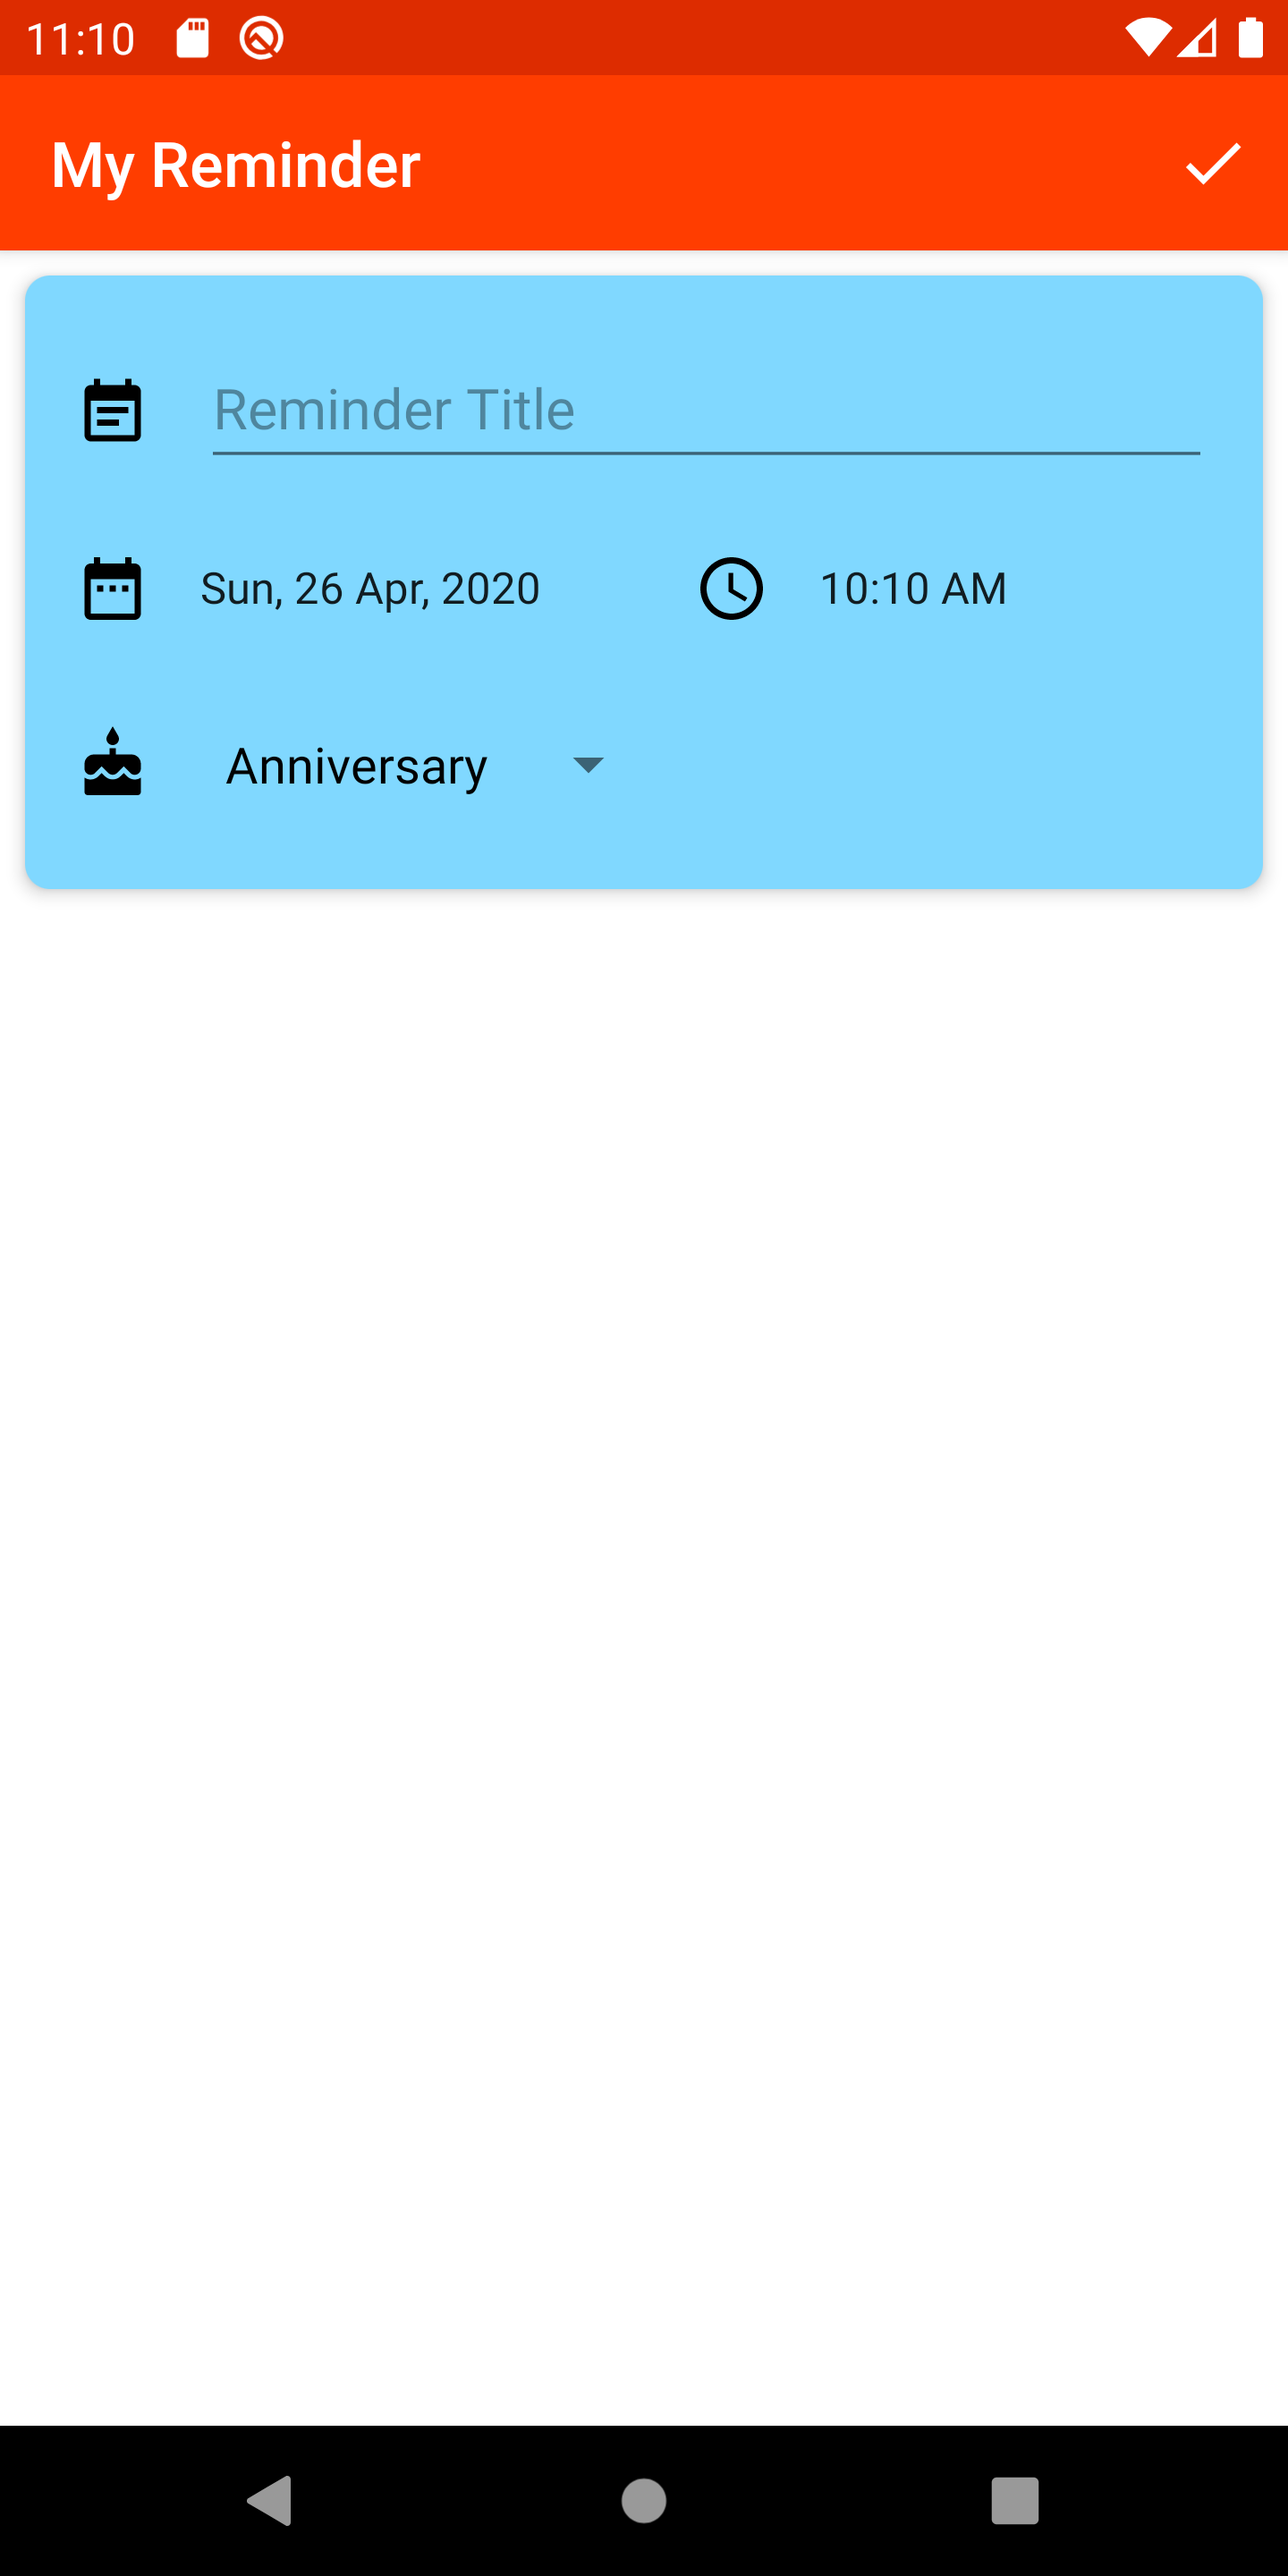
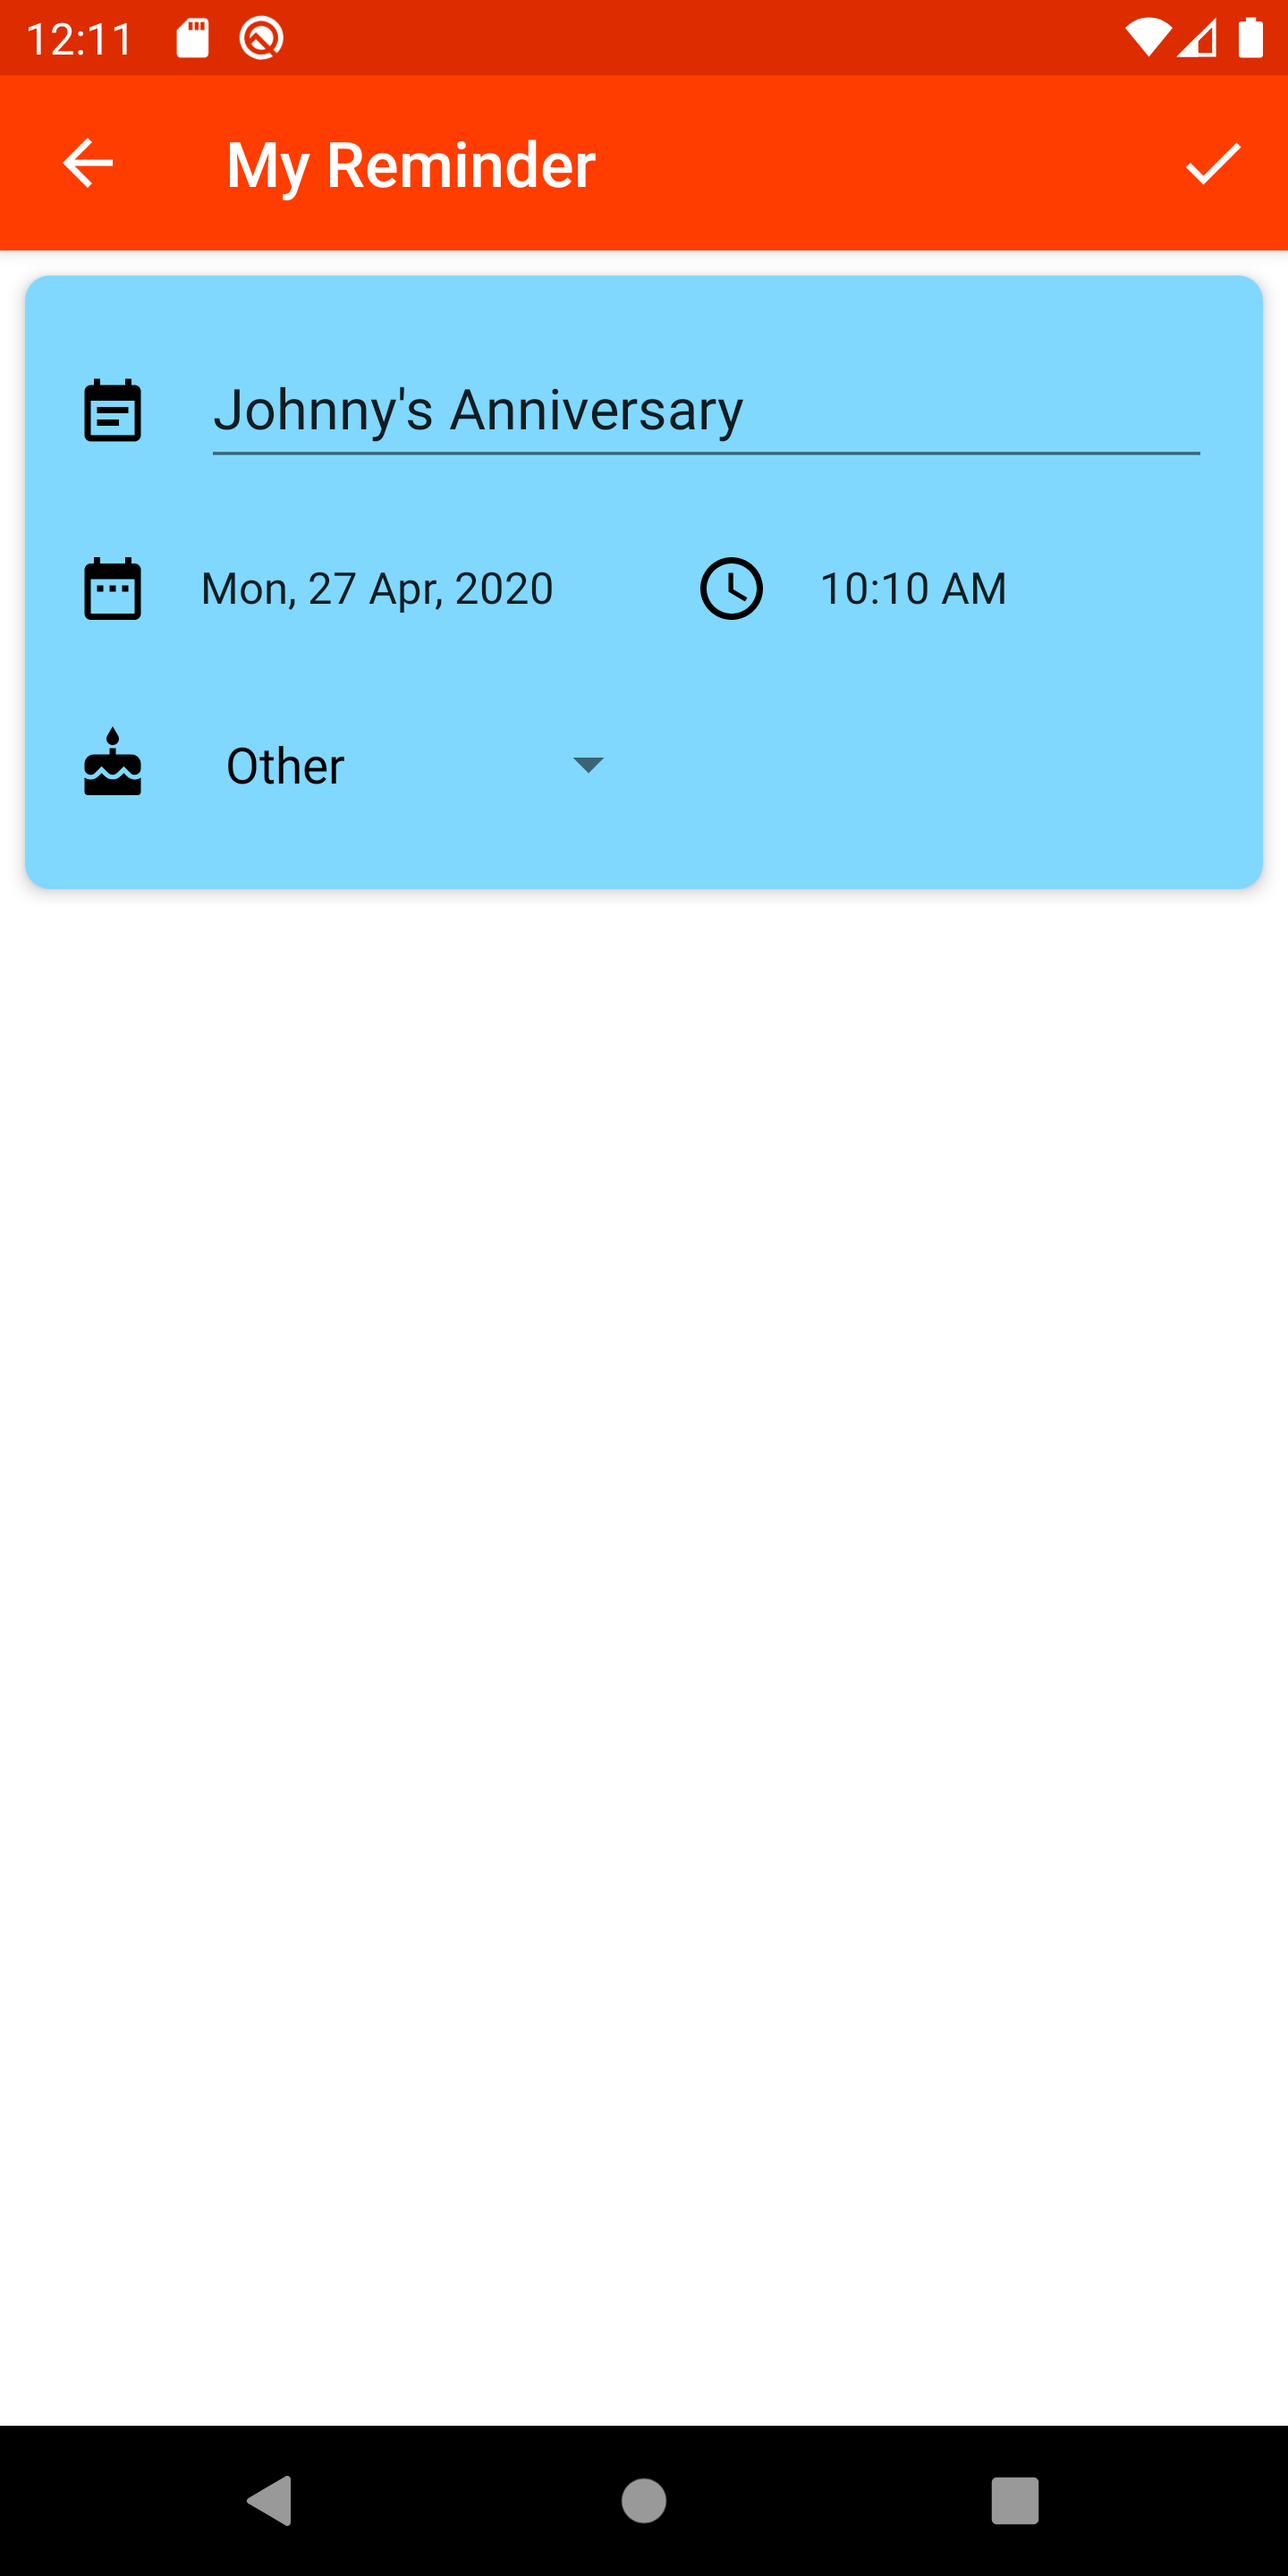
Added back to home navigation button

diff --git a/app/src/main/java/com/gofedora/myreminder/MainActivity.kt b/app/src/main/java/com/gofedora/myreminder/MainActivity.kt
@@ -19,7 +19,8 @@ import kotlinx.android.synthetic.main.activity_main.*
 class MainActivity : AppCompatActivity(), FragmentCallback {
 
     companion object {
-        private const val BACKSTACK_TAG = "ReminderFragments"
+        private const val REMINDER_LIST_FRAGMENT = 1
+        private const val REMINDER_EDIT_FRAGMENT = 2
     }
 
     override fun onCreate(savedInstanceState: Bundle?) {
@@ -28,27 +29,56 @@ class MainActivity : AppCompatActivity(), FragmentCallback {
         setSupportActionBar(toolbar)
 
         // Initiate a draw the reminder list on initial load
-        val fragment = ReminderListFragment().apply {
-            setFragmentActionListener(this@MainActivity)
-        }
-
-        supportFragmentManager.beginTransaction()
-            .replace(R.id.fragment_container, fragment)
-            .commit()
+        navigateToFragment(REMINDER_LIST_FRAGMENT)
 
         // Attach onClickListener to FloatingActionButton to switch to edit page
         fab.setOnClickListener {
-            val editFragment = ReminderEditFragment().apply {
-                setFragmentActionListener(this@MainActivity)
+            navigateToFragment(REMINDER_EDIT_FRAGMENT)
+        }
+    }
+
+    /**
+     * Navigate between fragments
+     */
+    private fun navigateToFragment(fragmentId: Int, bundle: Bundle = Bundle()) {
+        when (fragmentId) {
+            REMINDER_LIST_FRAGMENT -> {
+                // Flush the FragmentManager backstack to clear any fragments
+                supportFragmentManager.popBackStack(null, FragmentManager.POP_BACK_STACK_INCLUSIVE)
+
+                val fragment = ReminderListFragment().apply {
+                    setFragmentActionListener(this@MainActivity)
+                }
+                supportFragmentManager.beginTransaction()
+                    .replace(R.id.fragment_container, fragment)
+                    .commit()
+
+                // Show FloatingActionButton
+                fab.visibility = View.VISIBLE
+
+                // Disable back to home navigation button
+                toolbar.navigationIcon = null
             }
+            REMINDER_EDIT_FRAGMENT -> {
+                val fragment = ReminderEditFragment().apply {
+                    setFragmentActionListener(this@MainActivity)
+                    arguments = bundle
+                }
 
-            supportFragmentManager.beginTransaction()
-                .replace(R.id.fragment_container, editFragment)
-                .addToBackStack(BACKSTACK_TAG)
-                .commit()
+                supportFragmentManager.beginTransaction()
+                    .replace(R.id.fragment_container, fragment)
+                    .addToBackStack("ReminderFragments")
+                    .commit()
 
-            // Hide FloatingActionButton on edit page
-            fab.visibility = View.GONE
+                // Hide FloatingActionButton on edit page
+                fab.visibility = View.GONE
+
+                // Add Back to Home navigation
+                toolbar.setNavigationIcon(R.drawable.ic_arrow_back_white_24dp)
+                toolbar.setNavigationOnClickListener {
+                    navigateToFragment(REMINDER_LIST_FRAGMENT)
+                }
+            }
         }
     }
 
@@ -57,6 +87,10 @@ class MainActivity : AppCompatActivity(), FragmentCallback {
      */
     override fun onOptionsItemSelected(item: MenuItem): Boolean {
         return when (item.itemId) {
+            R.id.home -> {
+                Toast.makeText(this, "Go back", Toast.LENGTH_SHORT).show()
+                true
+            }
             // Insert Dummy Data clicked
             R.id.actionInsertDummyData -> {
                 // Generate reminders from our string resource
@@ -87,6 +121,10 @@ class MainActivity : AppCompatActivity(), FragmentCallback {
     override fun onBackPressed() {
         // Show FloatingActionButton
         fab.visibility = View.VISIBLE
+
+        // Disable back to home navigation button
+        toolbar.navigationIcon = null
+
         super.onBackPressed()
     }
 
@@ -100,18 +138,7 @@ class MainActivity : AppCompatActivity(), FragmentCallback {
             // A reminder in the reminder list was clicked, navigate to edit page
             FragmentCallback.REMINDER_CLICKED -> {
                 // Initiate ReminderEditFragment and pass along the arguments
-                val fragment = ReminderEditFragment().apply {
-                    setFragmentActionListener(this@MainActivity)
-                    arguments = bundle
-                }
-
-                supportFragmentManager.beginTransaction()
-                    .replace(R.id.fragment_container, fragment)
-                    .addToBackStack(BACKSTACK_TAG) // Add to back stack so that user can navigate back to reminder list
-                    .commit()
-
-                // Hide FloatingActionButton
-                fab.visibility = View.GONE
+                navigateToFragment(REMINDER_EDIT_FRAGMENT, bundle)
             }
             // Date was clicked on edit page, initiate and show DatePicker
             FragmentCallback.DATE_CLICKED -> {
@@ -156,19 +183,8 @@ class MainActivity : AppCompatActivity(), FragmentCallback {
                     }
                 }
 
-                // Flush the FragmentManager backstack to clear any fragments
-                supportFragmentManager.popBackStack(null, FragmentManager.POP_BACK_STACK_INCLUSIVE)
-
                 // Time to switch back to reminder list
-                val fragment = ReminderListFragment().apply {
-                    setFragmentActionListener(this@MainActivity)
-                }
-                supportFragmentManager.beginTransaction()
-                    .replace(R.id.fragment_container, fragment)
-                    .commit()
-
-                // Show the FloatingActionButton
-                fab.visibility = View.VISIBLE
+                navigateToFragment(REMINDER_LIST_FRAGMENT)
             }
             // Delete Icon clicked
             FragmentCallback.DELETE_REMINDER_CLICKED -> {
